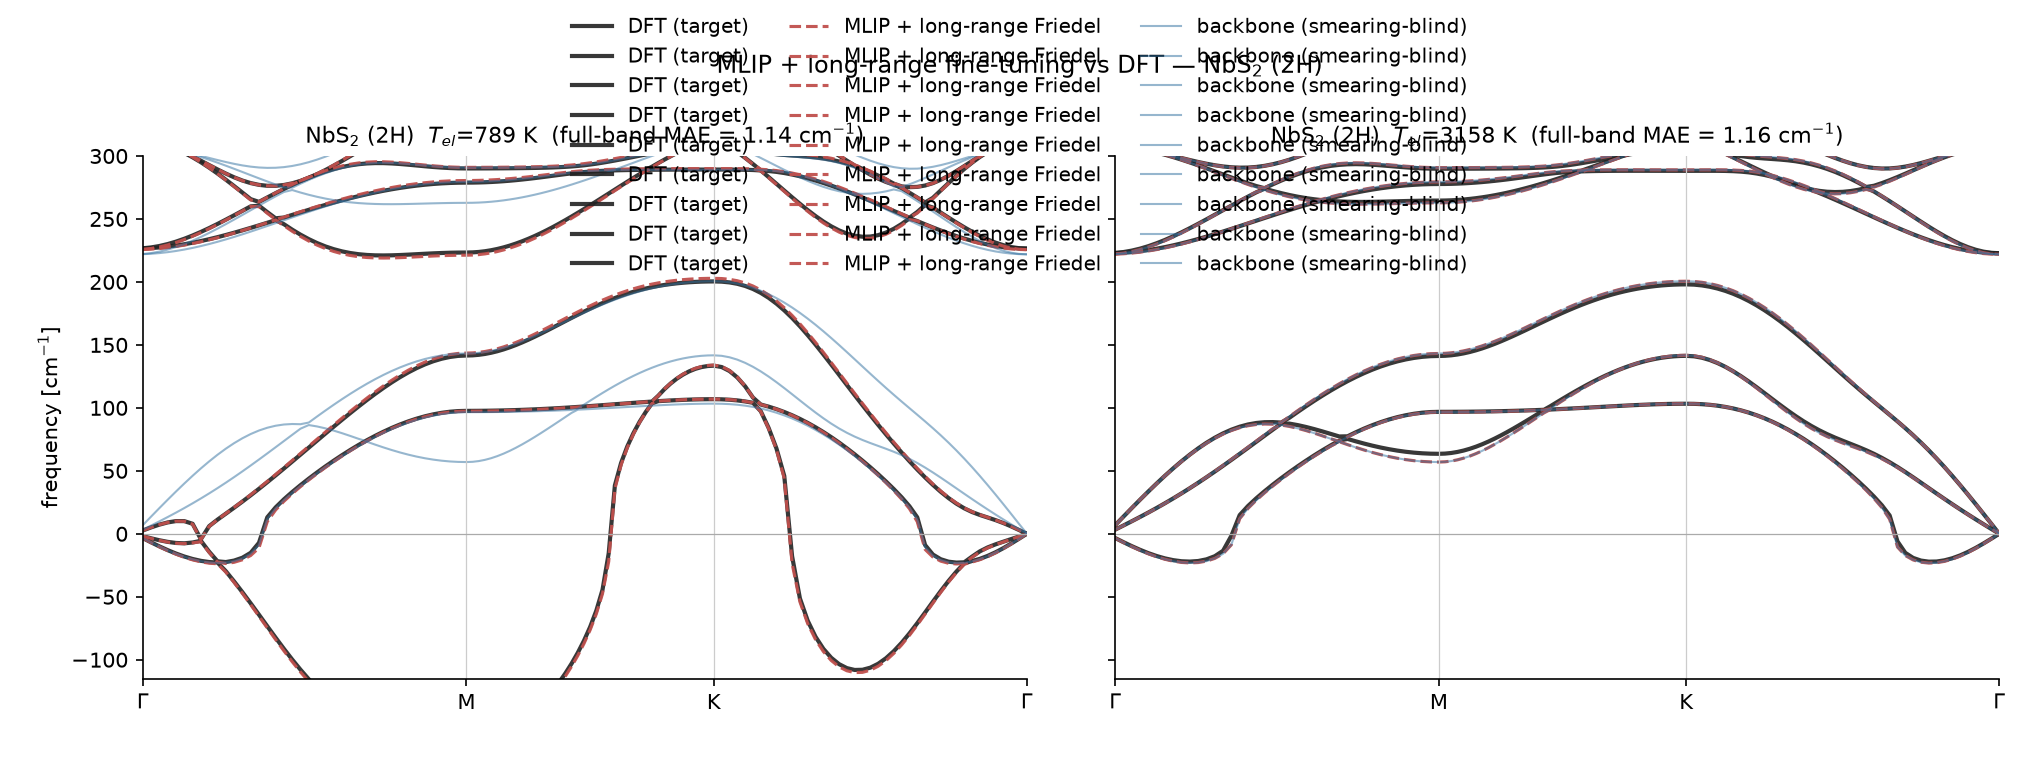
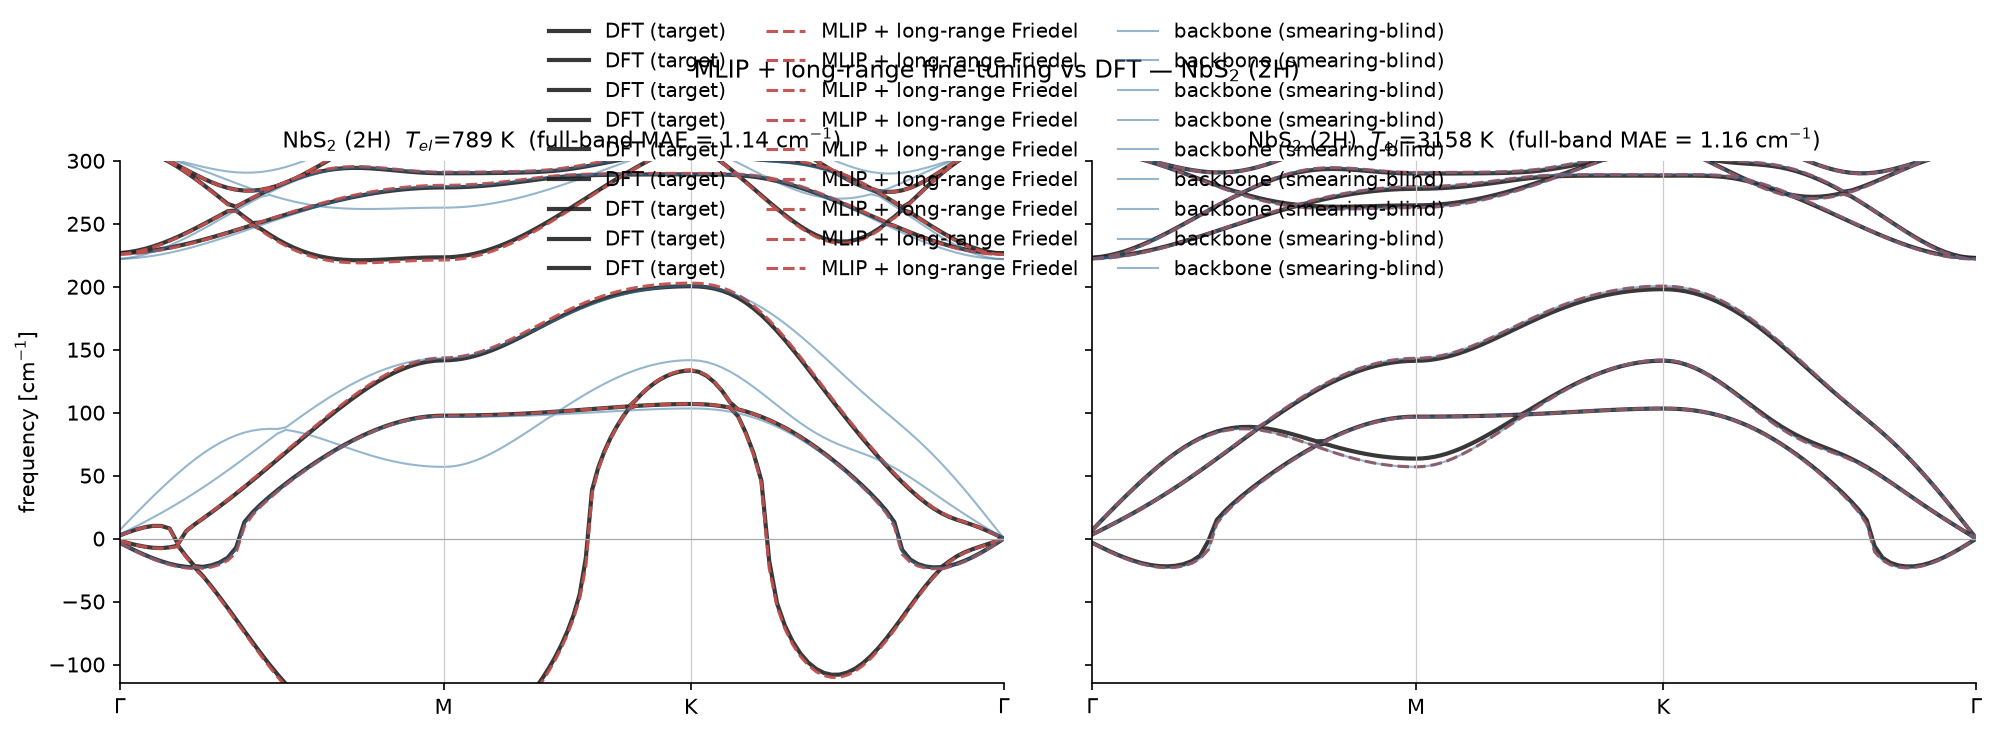
figures: add bbox_inches=tight to all savefigs (fix cut-off content / clipped outside legends)

diff --git a/scripts/smearing_kink/plot_phonon_spectra.py b/scripts/smearing_kink/plot_phonon_spectra.py
@@ -117,7 +117,7 @@ def plot_E():
                  fontsize=11.5, y=0.98)
     fig.subplots_adjust(left=0.07, bottom=0.12, right=0.97, top=0.93, hspace=0.28, wspace=0.13)
     out = SK / "spectra_E_smearing.png"
-    fig.savefig(out, dpi=150); print("wrote", out)
+    fig.savefig(out, dpi=150, bbox_inches="tight"); print("wrote", out)
 
 
 def plot_L():
@@ -155,7 +155,7 @@ def plot_L():
     fig.suptitle("(L)-channel: SSCHA phonon dispersion vs lattice temperature (Path-P anharmonic backbone)", fontsize=12)
     fig.tight_layout()
     out = SK / "spectra_L_temperature.png"
-    fig.savefig(out, dpi=150); print("wrote", out)
+    fig.savefig(out, dpi=150, bbox_inches="tight"); print("wrote", out)
 
 
 def plot_L_tdep():
@@ -190,7 +190,7 @@ def plot_L_tdep():
         ax.spines[s].set_visible(False)
     fig.subplots_adjust(left=0.10, bottom=0.10, right=0.97, top=0.80)
     out = SK / "spectra_L_temperature.png"
-    fig.savefig(out, dpi=150); print("wrote", out)
+    fig.savefig(out, dpi=150, bbox_inches="tight"); print("wrote", out)
 
 
 def plot_kink_comparison():
@@ -249,7 +249,7 @@ def plot_kink_comparison():
                  fontsize=11, y=0.95)
     fig.subplots_adjust(left=0.08, bottom=0.13, right=0.97, top=0.80, wspace=0.22)
     out = SK / "kink_vs_Tel_Tlat.png"
-    fig.savefig(out, dpi=150); print("wrote", out)
+    fig.savefig(out, dpi=150, bbox_inches="tight"); print("wrote", out)
 
 
 def plot_deploy_vs_dft(mat="NbSe2", label=None, ylim=(-115, 300)):
@@ -291,7 +291,7 @@ def plot_deploy_vs_dft(mat="NbSe2", label=None, ylim=(-115, 300)):
     fig.suptitle(f"MLIP + long-range fine-tuning vs DFT — {lab}", fontsize=11.5, y=0.93)
     fig.subplots_adjust(left=0.07, bottom=0.13, right=0.98, top=0.80, wspace=0.10)
     out = SK / f"deploy_vs_dft_{mat}.png"
-    fig.savefig(out, dpi=150); print("wrote", out)
+    fig.savefig(out, dpi=150, bbox_inches="tight"); print("wrote", out)
 
 
 def plot_graphene_L():
@@ -321,7 +321,7 @@ def plot_graphene_L():
         ax.spines[s].set_visible(False)
     fig.subplots_adjust(left=0.10, bottom=0.12, right=0.72, top=0.92)
     out = SK / "graphene_L_dft_vs_mlip.png"
-    fig.savefig(out, dpi=150); print("wrote", out)
+    fig.savefig(out, dpi=150, bbox_inches="tight"); print("wrote", out)
 
 
 if __name__ == "__main__":

diff --git a/scripts/smearing_kink/plot_origin_map.py b/scripts/smearing_kink/plot_origin_map.py
@@ -80,7 +80,7 @@ ax.set_title("(E)/(L) origin map: 2H = electronic, 1T-VSe$_2$ = lattice", fontsi
 for s in ("top", "right"):
     ax.spines[s].set_visible(False)
 fig.subplots_adjust(left=0.12, bottom=0.13, right=0.78, top=0.95)
-fig.savefig(FIG, dpi=150)
+fig.savefig(FIG, dpi=150, bbox_inches="tight")
 print("wrote", OUT, "and", FIG)
 for r in rows_out:
     print(f"  {r['material']:12s} {r['polytype']}  E={r['E_response_mThz_per_K']}  L={r['L_depth_cm']}  -> {r['origin']}")

diff --git a/scripts/smearing_kink/plot_family_L.py b/scripts/smearing_kink/plot_family_L.py
@@ -75,7 +75,7 @@ ax.set_title("(L)-channel: 1T soft mode heals at $T_{\\rm CDW}$; 2H inert (3$\\t
 for s in ("top", "right"):
     ax.spines[s].set_visible(False)
 fig.subplots_adjust(left=0.10, bottom=0.10, right=0.72, top=0.93)
-fig.savefig(FIG, dpi=150)
+fig.savefig(FIG, dpi=150, bbox_inches="tight")
 
 # csv summary: per-material (L)-depth + crossover T
 rows = [["material", "polytype", "L_depth_cm", "crossover_K", "origin"]]

diff --git a/scripts/smearing_kink/plot_breadth_contrast.py b/scripts/smearing_kink/plot_breadth_contrast.py
@@ -47,5 +47,5 @@ ax.legend(loc="center left", bbox_to_anchor=(1.01, 0.5), frameon=False, fontsize
 for s in ("top", "right"):
     ax.spines[s].set_visible(False)
 fig.subplots_adjust(left=0.12, bottom=0.12, right=0.72, top=0.90)
-fig.savefig(SK / "breadth_contrast.png", dpi=150)
+fig.savefig(SK / "breadth_contrast.png", dpi=150, bbox_inches="tight")
 print("saved", SK / "breadth_contrast.png")
